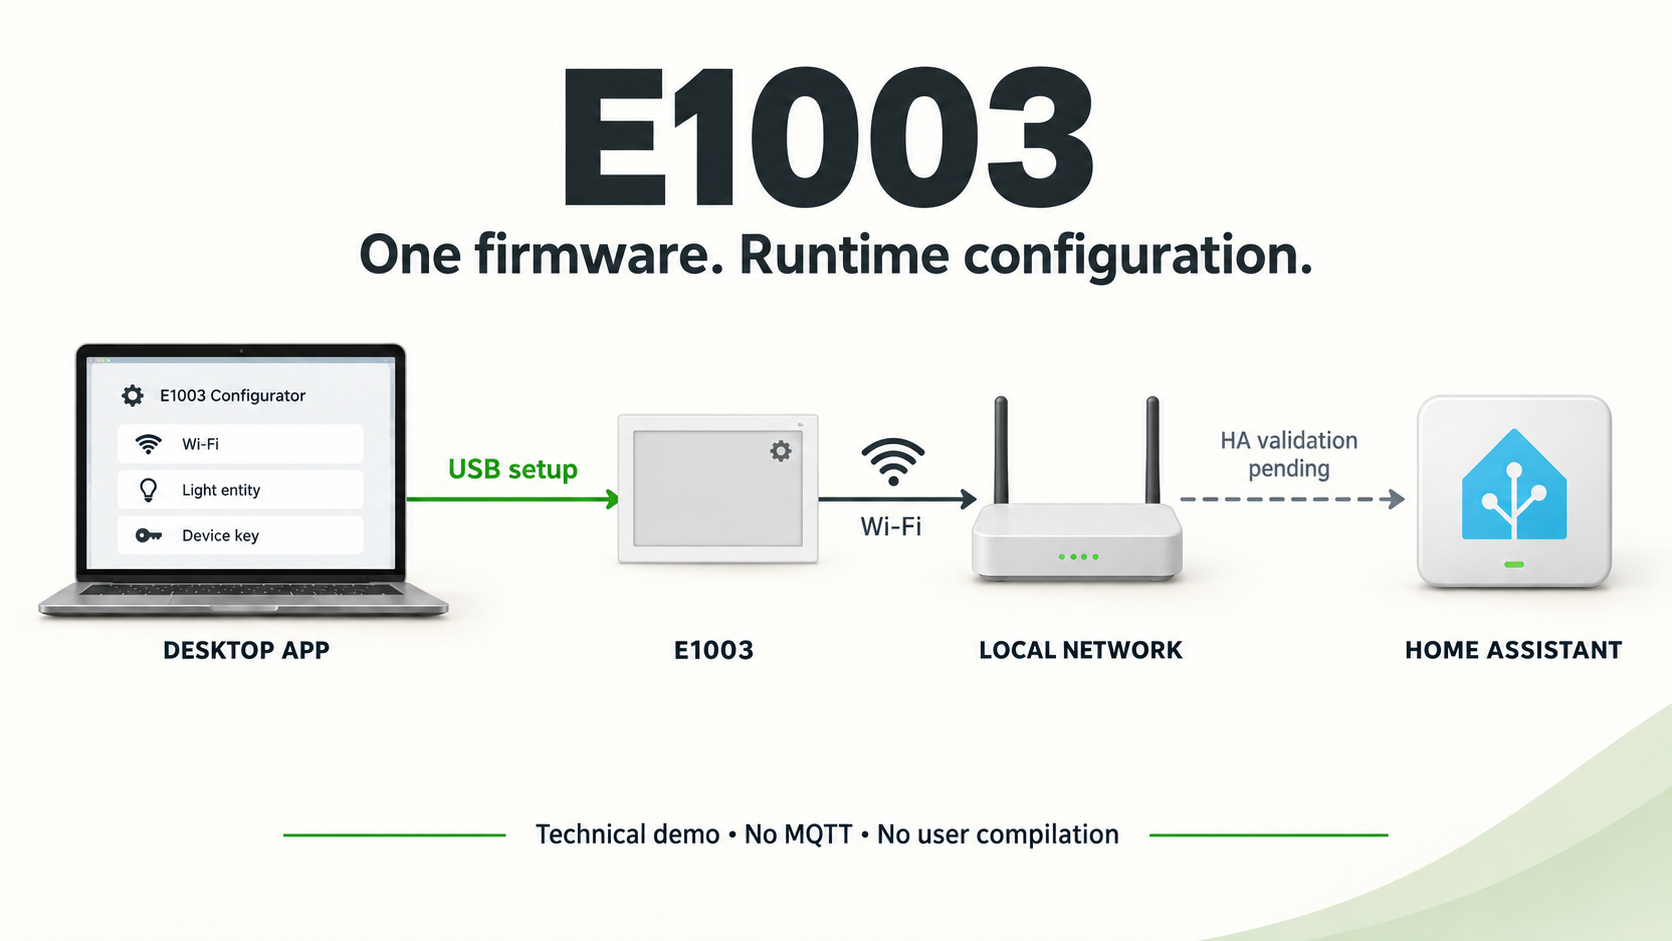
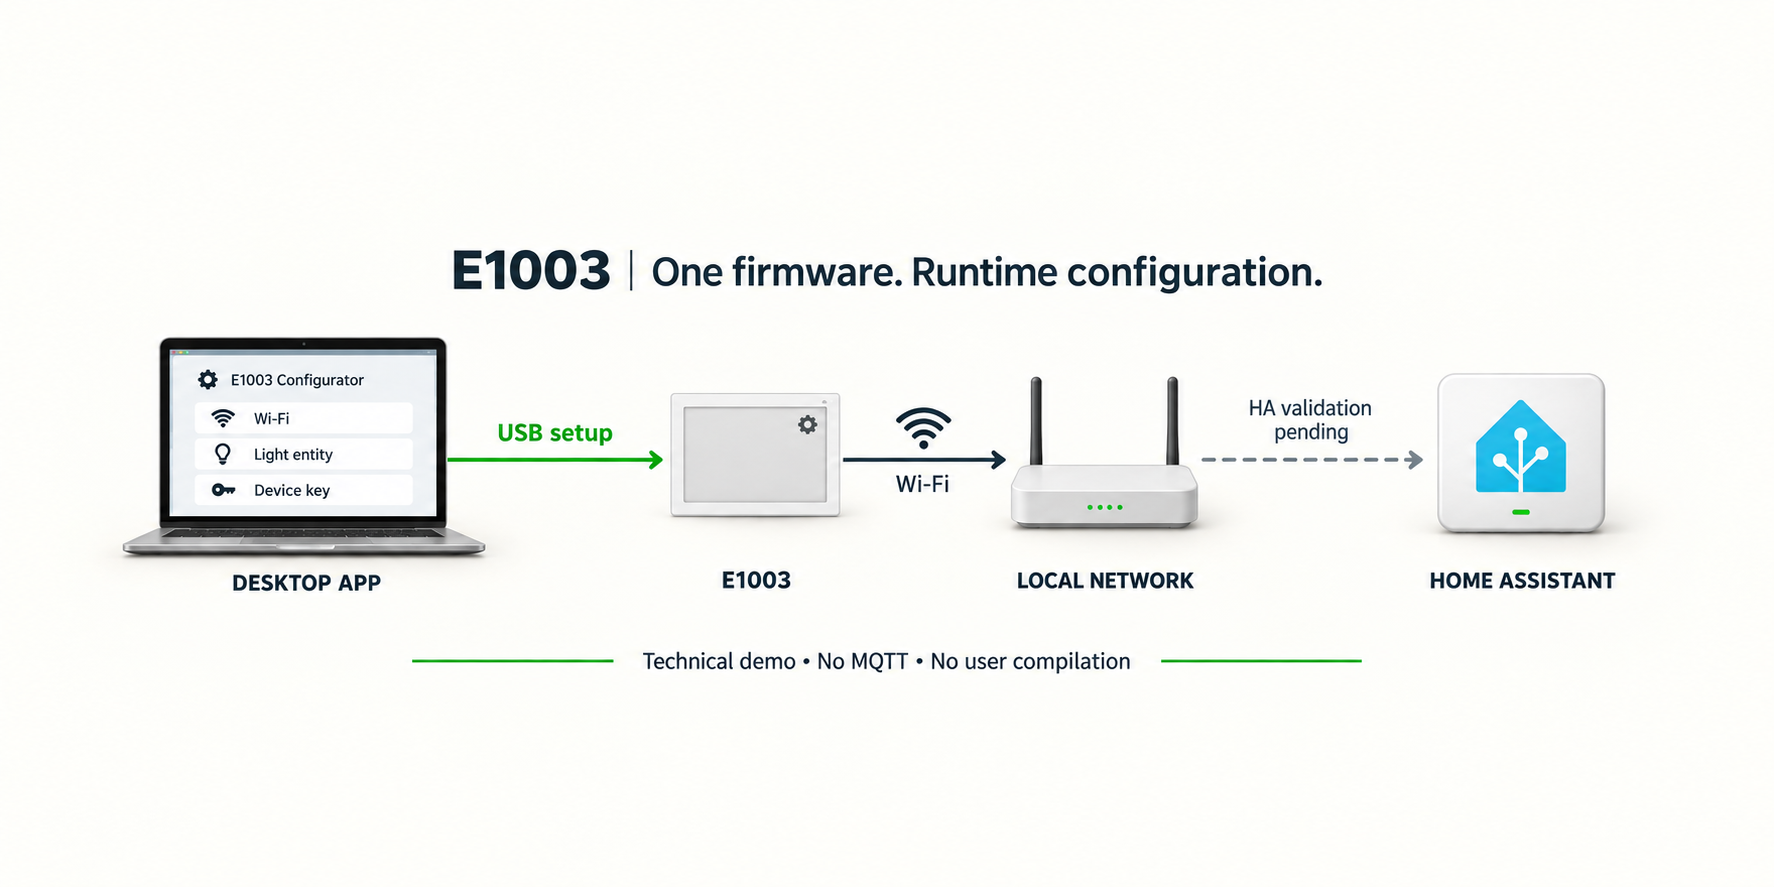
fix: keep E1003 cover content within hero crop

diff --git a/solutions/reterminal_e1003_ha/gallery/README.md b/solutions/reterminal_e1003_ha/gallery/README.md
@@ -8,3 +8,5 @@
 Create a polished wide 16:9 cover for an E1003 ESPHome runtime-configuration technical demo. Off-white background, charcoal text and green accent. Headline `E1003`, subtitle `One firmware. Runtime configuration.` Four schematic nodes: `DESKTOP APP`, `E1003`, `LOCAL NETWORK`, `HOME ASSISTANT`. Connect App to panel with `USB setup`, panel to network with `Wi-Fi`, network to HA with a dashed `HA validation pending` line. Show settings `Wi-Fi`, `Light entity`, `Device key`. Footer `Technical demo • No MQTT • No user compilation`. No real-time numeric data, cloud service or success badge.
 
 Final refinement: use a simple neutral landscape e-paper schematic, remove invented leaf branding/tagline and decorative plants, preserve the original labels and connectors. The schematic does not assert the physical device geometry.
+
+App-hero refinement: adapt for the App's 21:9 crop, compact the headline and diagram, and keep all labels within the central 60% of image height with generous empty top/bottom margins. This prevents the App from cropping the headline/footer. Final output: 1774×887.
